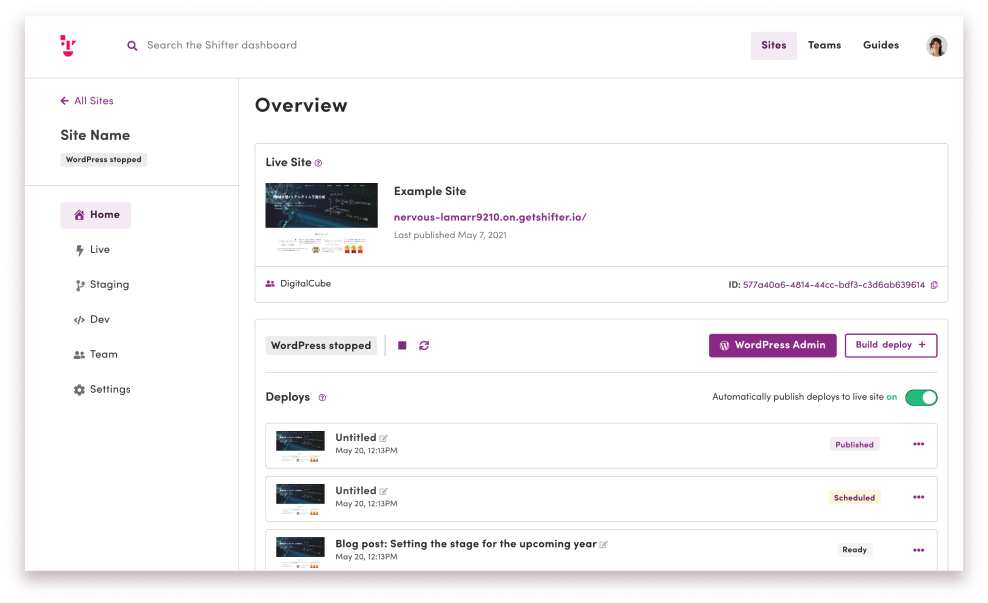
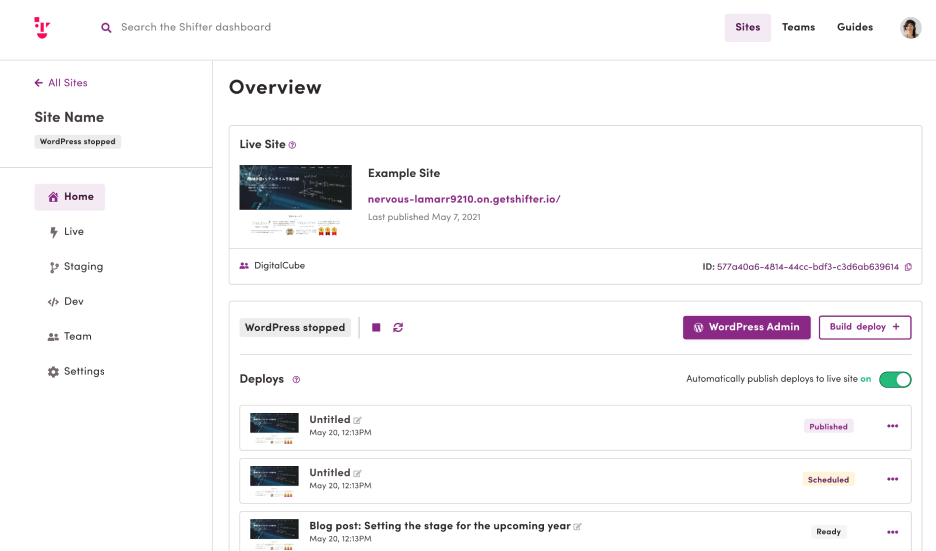
updated screenshot component

diff --git a/libs/ui-marketing/src/lib/large-screenshot/large-screenshot.tsx b/libs/ui-marketing/src/lib/large-screenshot/large-screenshot.tsx
@@ -1,11 +1,25 @@
 import { WebApplication } from 'schema-dts';
 
 /* eslint-disable-next-line */
-export type LargeScreenshotProps = WebApplication;
+export type LargeScreenshotProps = WebApplication & { '@type': null };
+
+function validURL(str) {
+  const pattern = new RegExp(
+    '^(https?:\\/\\/)?' + // protocol
+      '((([a-z\\d]([a-z\\d-]*[a-z\\d])*)\\.)+[a-z]{2,}|' + // domain name
+      '((\\d{1,3}\\.){3}\\d{1,3}))' + // OR ip (v4) address
+      '(\\:\\d+)?(\\/[-a-z\\d%_.~+]*)*' + // port and path
+      '(\\?[;&a-z\\d%_.~+=-]*)?' + // query string
+      '(\\#[-a-z\\d_]*)?$',
+    'i'
+  ); // fragment locator
+  return !!pattern.test(str);
+}
 
 export const LargeScreenshot = (props: LargeScreenshotProps) => {
   const { screenshot, name } = props;
-  const src = new URL(`${screenshot}`);
+
+  const src = validURL(`${screenshot}`) ? new URL(`${screenshot}`) : screenshot;
   const video = ['player.vimeo.com'];
   if (video.indexOf(src.host) > -1) {
     return (
@@ -22,28 +36,16 @@ export const LargeScreenshot = (props: LargeScreenshotProps) => {
       </div>
     );
   } else {
-    return 'foo';
+    return (
+      <div className="mx-auto max-w-screen-md text-center shadow-3 mb-20 rounded">
+        <img className="w-full" src={`${src}`} alt={`${name}`} />
+      </div>
+    );
   }
-
-  // return (
-  //   <div className="mx-auto max-w-screen-md text-center shadow-3 mb-20">
-  //     <div className="aspect-w-16 aspect-h-9 overflow-hidden">
-  //       <iframe
-  //         src={`${src}`}
-  //         frameBorder="0"
-  //         allow="accelerometer; autoplay; clipboard-write; encrypted-media; gyroscope; picture-in-picture"
-  //         allowFullScreen
-  //         title="Product Demo"
-  //       />
-  //     </div>
-  //   </div>
-  // );
-  // console.log(src);
 };
 
 LargeScreenshot.defaultProps = {
   '@type': 'WebApplication',
   name: 'Product Demo',
-  screenshot:
-    'https://player.vimeo.com/video/365886635?title=0&byline=0&portrait=0&muted=1&autoplay=1&autopause=0&controls=0&loop=1&app_id=122963',
+  screenshot: 'http://localhost:4200/shifter-dashboard.png',
 };

diff --git a/apps/frontend/pages/index.tsx b/apps/frontend/pages/index.tsx
@@ -10,9 +10,16 @@ import {
 const list = [
   { id: 1, type: 'Hero' },
   { id: 2, type: 'Logos' },
-  { id: 3, type: 'Screenshot' },
+  { id: 3, type: 'Screenshot', screenshot: '/maintenance-free-dashboard.png' },
   { id: 4, type: 'CTA' },
-  { id: 5, type: 'Benefits' },
+  {
+    id: 5,
+    type: 'Benefits',
+    headline: 'Static WordPress - Blazing Fast',
+    alternativeHeadline: 'Virtually unhackable WordPress sites',
+    description:
+      'Shifter automatically handles your WordPress install and creates scalable sites with no downtime.',
+  },
 ];
 
 export function Index() {
@@ -28,6 +35,10 @@ export function Index() {
           Screenshot: LargeScreenshot,
           CTA: CTASimpleLeft,
           Benefits: BenefitsWithIllustration,
+        }}
+        mapDataToProps={{
+          Benefits: ({ data }) => ({ ...data }),
+          Screenshot: ({ data }) => ({ ...data }),
         }}
       />
     </div>

diff --git a/libs/ui/@types/index.d.ts b/libs/ui/@types/index.d.ts
@@ -1,3 +1,3 @@
 type Mode = string | null
 
-type Align = 'left' | 'right' | 'center' | null
+export type AlignProps = 'left' | 'right' | 'center' | null
